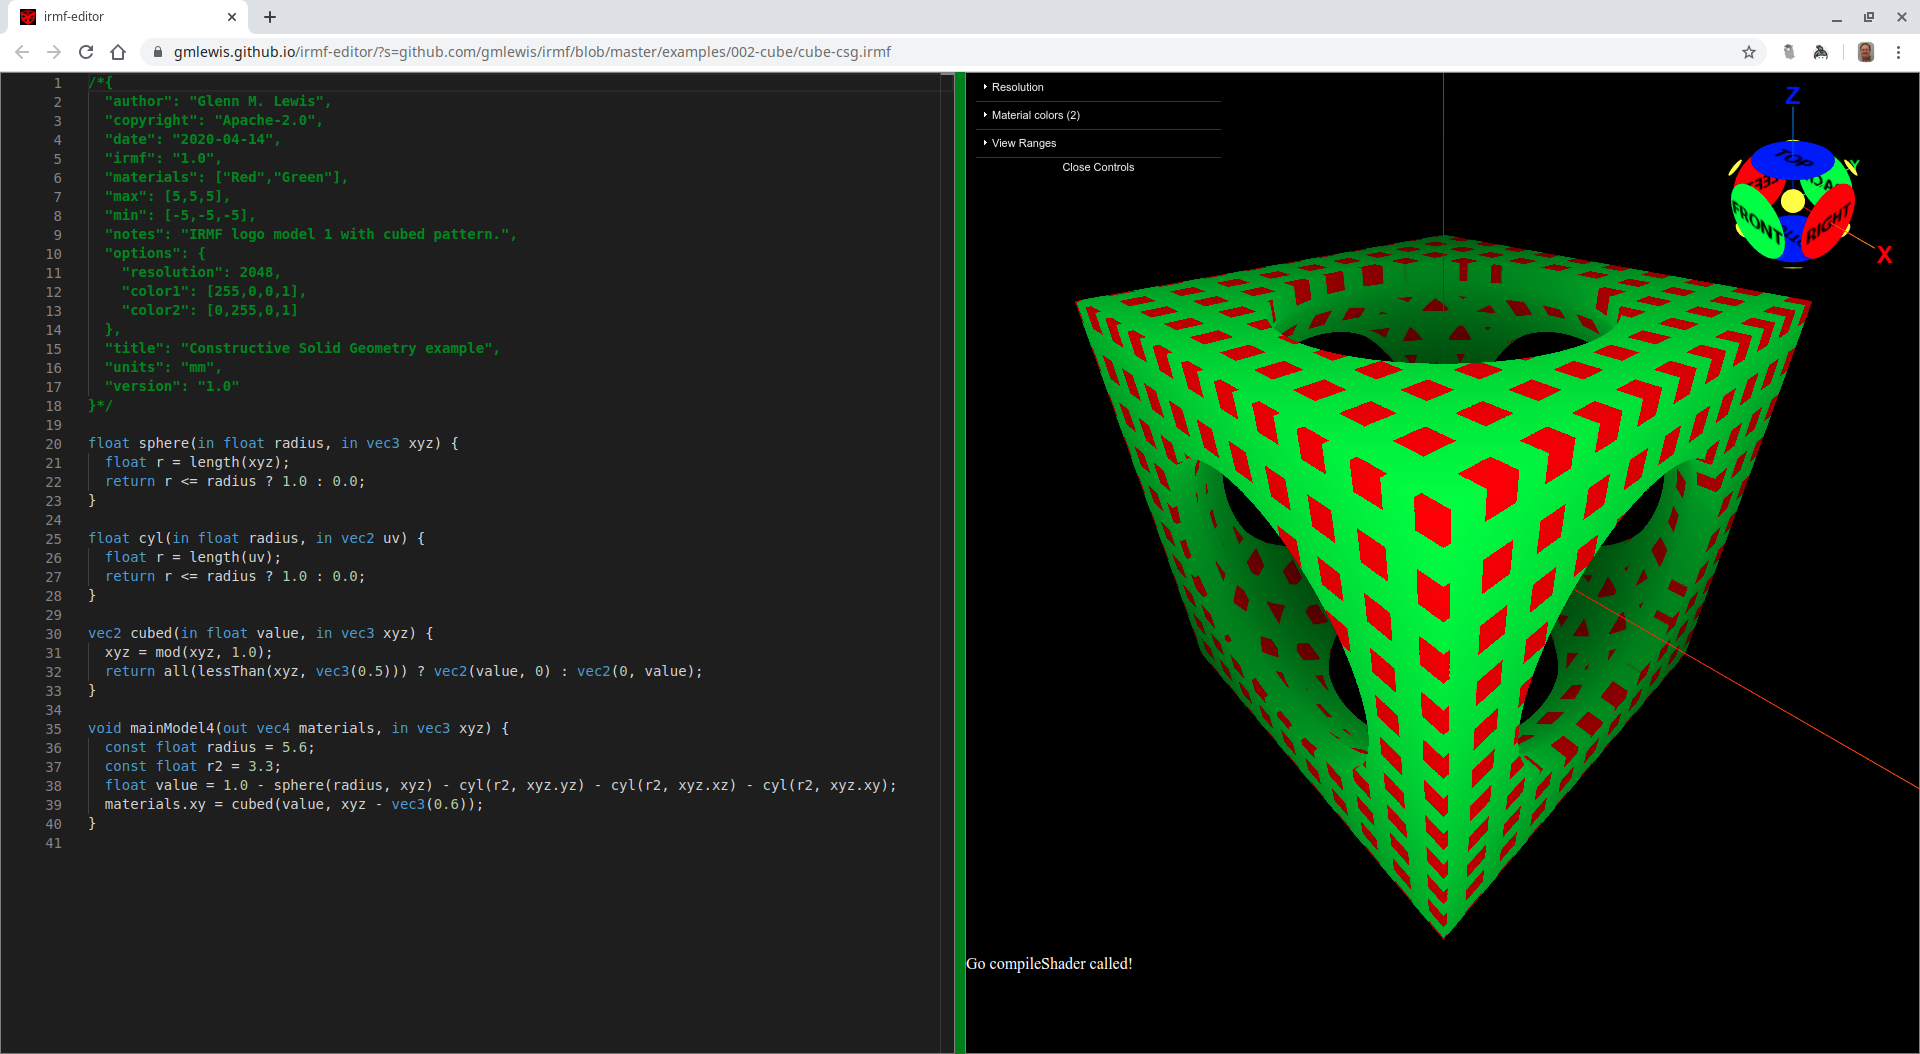
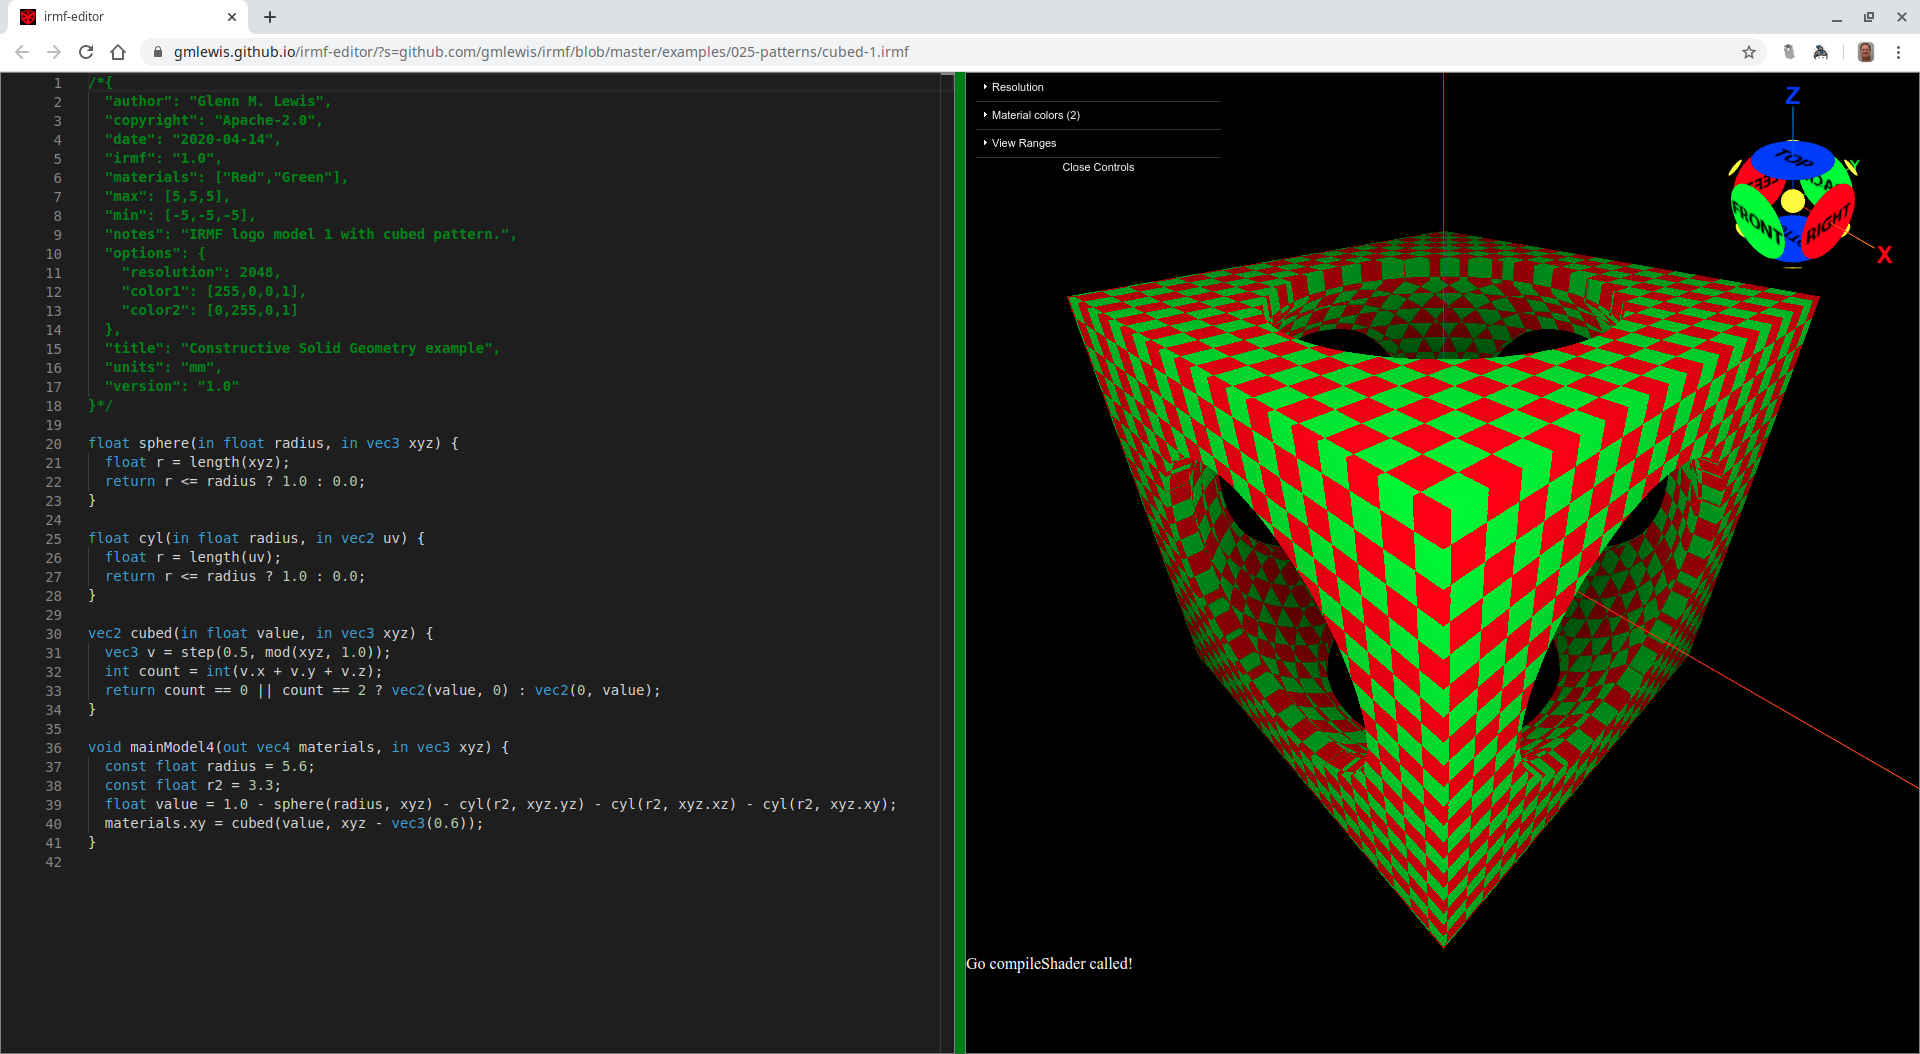
Update cubed-1.irmf

diff --git a/examples/025-patterns/README.md b/examples/025-patterns/README.md
@@ -42,8 +42,9 @@ float cyl(in float radius, in vec2 uv) {
 }
 
 vec2 cubed(in float value, in vec3 xyz) {
-  xyz = mod(xyz, 1.0);
-  return all(lessThan(xyz, vec3(0.5))) ? vec2(value, 0) : vec2(0, value);
+  vec3 v = step(0.5, mod(xyz, 1.0));
+  int count = int(v.x + v.y + v.z);
+  return count == 0 || count == 2 ? vec2(value, 0) : vec2(0, value);
 }
 
 void mainModel4(out vec4 materials, in vec3 xyz) {
